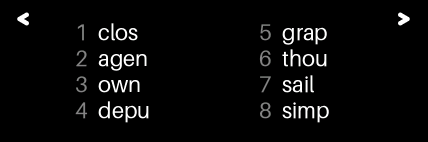
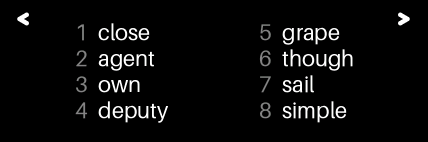
feat(ui-px): boot fingerprint shows the eight words whole
The pixel boot grid was fed the FSBL's 4x16 text rows, so every word was
cut to its five-letter prefix although the words grid has room for nine
characters. BIP-39 English words are at most eight letters (88 of 2048
are exactly eight), so `fingerprint_grid` now takes the full words
(`word_bytes_at` over `hash_to_word_indices`) and cuts nothing.

The FSBL window and the legacy 16x4 fallback keep the shared
`firmware_fingerprint_lines` prefixes (a text row cannot fit two
eight-letter words); each prefix starts the word shown on the grid and
four letters already identify a BIP-39 word, so the rows still compare.

Lifecycle `boot` fixture re-exported and its frame golden re-blessed
(only the fingerprint frame changed); catalogue frame and port plan
updated. Secure host tests 2628/0, pqsigner-ui-px 100/0.

diff --git a/secure/src/ui/px/status_map.rs b/secure/src/ui/px/status_map.rs
@@ -337,24 +337,22 @@ pub fn choice(title: &[u8], option: &[u8]) -> Screen {
         .unwrap_or(Screen::BLANK)
 }
 
-/// The boot fingerprint grid from the FSBL's own 4×16 rows (`1 word 5 word`
-/// per row), so the pixel grid shows exactly the prefixes the FSBL shows.
+/// The boot fingerprint grid: the eight words whole, as NUL-padded cells
+/// (`word_bytes_at`). BIP-39 English words are at most eight letters, so
+/// nothing is cut. The FSBL's text window can only fit five-letter
+/// prefixes; each prefix is the start of the word shown here, and the first
+/// four letters already identify a BIP-39 word, so the two rows still
+/// compare at a glance.
 #[must_use]
-pub fn fingerprint_grid(rows: &[[u8; 16]; 4]) -> Screen {
-    let mut words: [&[u8]; 8] = [b"-"; 8];
-    let trim = |w: &[u8]| -> usize { w.iter().position(|&b| b == b' ').unwrap_or(w.len()) };
-    for (r, row) in rows.iter().enumerate() {
-        let l = &row[2..8];
-        let rr = &row[10..16];
-        let (ll, rl) = (trim(l), trim(rr));
-        if ll > 0 {
-            words[r] = &l[..ll];
-        }
-        if rl > 0 {
-            words[r + 4] = &rr[..rl];
+pub fn fingerprint_grid(words: &[[u8; 8]; 8]) -> Screen {
+    let mut cells: [&[u8]; 8] = [b"-"; 8];
+    for (cell, w) in cells.iter_mut().zip(words) {
+        let n = w.iter().position(|&b| b == 0).unwrap_or(w.len());
+        if n > 0 {
+            *cell = &w[..n];
         }
     }
-    ScreenBuilder::words(b"FPRINT", b"", &words).finish().unwrap_or(Screen::BLANK)
+    ScreenBuilder::words(b"FPRINT", b"", &cells).finish().unwrap_or(Screen::BLANK)
 }
 
 /// The seed-page record: `n` placeholder cells numbered from `first` — the
@@ -683,19 +681,22 @@ mod tests {
     }
 
     #[test]
-    fn fingerprint_grid_keeps_the_fsbl_prefixes() {
-        let mut rows = [[b' '; 16]; 4];
-        let words = [b"clos", b"agen", b"own ", b"depu", b"grap", b"thou", b"sail", b"simp"];
-        for r in 0..4 {
-            rows[r][0] = b'1' + r as u8;
-            rows[r][2..6].copy_from_slice(words[r]);
-            rows[r][8] = b'5' + r as u8;
-            rows[r][10..14].copy_from_slice(words[r + 4]);
-        }
-        let g = fingerprint_grid(&rows);
-        assert_eq!(g.grid_word(0), Some(&b"clos"[..]));
+    fn fingerprint_grid_shows_whole_words() {
+        let w = |s: &[u8]| {
+            let mut c = [0u8; 8];
+            c[..s.len()].copy_from_slice(s);
+            c
+        };
+        let words = [w(b"close"), w(b"agent"), w(b"own"), w(b"deputy"), w(b"grape"), w(b"though"), w(b"sail"), w(b"category")];
+        let g = fingerprint_grid(&words);
+        assert!(g.is_well_formed());
+        assert_eq!(g.grid_word(0), Some(&b"close"[..]));
         assert_eq!(g.grid_word(2), Some(&b"own"[..]));
-        assert_eq!(g.grid_word(7), Some(&b"simp"[..]));
+        assert_eq!(g.grid_word(3), Some(&b"deputy"[..]));
+        // The longest BIP-39 English words (eight letters) fit whole.
+        assert_eq!(g.grid_word(7), Some(&b"category"[..]));
+        let longest = sphincs_tz_bip39::wordlist::WORDLIST.iter().map(|w| w.len()).max().unwrap();
+        assert_eq!(longest, 8);
     }
 
     #[test]
@@ -737,13 +738,6 @@ mod tests {
             c[..s.len()].copy_from_slice(s);
             c
         };
-        let mut rows = [[b' '; 16]; 4];
-        for (r, (a, b)) in [(b"clos", b"grap"), (b"agen", b"thou"), (b"own ", b"sail"), (b"depu", b"simp")].iter().enumerate() {
-            rows[r][0] = b'1' + r as u8;
-            rows[r][2..6].copy_from_slice(*a);
-            rows[r][8] = b'5' + r as u8;
-            rows[r][10..14].copy_from_slice(*b);
-        }
         let fw = [w(b"close"), w(b"agent"), w(b"own"), w(b"deputy"), w(b"grape"), w(b"though"), w(b"sail"), w(b"simple")];
         let key = [w(b"zoo"), w(b"abandon"), w(b"mountain"), w(b"withdraw"), w(b"ill"), w(b"jewel"), w(b"quality"), w(b"fix")];
         let mut fwt = std::boxed::Box::new(pqsigner_ui_px::Screens::blank());
@@ -768,7 +762,7 @@ mod tests {
         )
         .unwrap();
         let scenarios: std::vec::Vec<(&str, std::vec::Vec<Screen>)> = std::vec![
-            ("boot", std::vec![splash(), st("OS Fingerprint", ""), fingerprint_grid(&rows), st("PQSigner OS", "Ready")]),
+            ("boot", std::vec![splash(), st("OS Fingerprint", ""), fingerprint_grid(&fw), st("PQSigner OS", "Ready")]),
             (
                 "unlock",
                 std::vec![

diff --git a/secure/src/measured_boot.rs b/secure/src/measured_boot.rs
@@ -157,11 +157,17 @@ fn render_all_words(hash: &[u8; 32]) {
     // of a renderer-width artifact.
     let rows = firmware_fingerprint_lines(hash);
 
-    // Port step 4: the same eight prefixes on the design's words grid. The
-    // FSBL's own window is NOT ported — it stays text (plan § 4).
+    // Port step 4: the design's words grid has room for the eight words
+    // whole (BIP-39 words are at most eight letters), so it shows them
+    // uncut; the FSBL's own text window keeps its five-letter prefixes (plan
+    // § 4), which are the starts of these words.
     #[cfg(feature = "ui-px")]
-    if crate::ui::px::screens::show(&crate::ui::px::status_map::fingerprint_grid(&rows)) {
-        return;
+    {
+        let indices = sphincs_tz_bip39::hash_to_word_indices(hash);
+        let words: [[u8; 8]; 8] = core::array::from_fn(|i| sphincs_tz_bip39::word_bytes_at(indices[i]).0);
+        if crate::ui::px::screens::show(&crate::ui::px::status_map::fingerprint_grid(&words)) {
+            return;
+        }
     }
 
     let d = display();

diff --git a/docs/ui/pixel-ui-port-plan.md b/docs/ui/pixel-ui-port-plan.md
@@ -188,7 +188,7 @@ batch idle → padlock) are screens outside the sign dialog — step 4 (done).
 | ~300 `ui::show_status` / `show_progress` sites | `screens/verdict/*`, status / film | `ui/px/status_map.rs` maps each to its screen; `ui/px/screens.rs` presents it |
 | PIN entry (`pin_entry.rs`) | `pin/pin_entering` (PIN row) | `status_map::pin_row` — painting only, the entry loop unchanged |
 | wrong PIN / PINs differ / checking / last attempt / locked / unlocked | `pin_mismatch`, `last_attempt`, `padlock` | verdicts |
-| boot splash + OS fingerprint | words grid | `splash`, `fingerprint_grid` (the FSBL's own 4×16 prefixes, so both rows still compare) |
+| boot splash + OS fingerprint | words grid | `splash`, `fingerprint_grid` (the eight words whole — BIP-39 words are ≤ 8 letters; the FSBL text window keeps its 5-letter prefixes, which start these words) |
 | seed wizard: chooser, 24 words, word entry, candidate pick, backup check | words grid, entry row, `shield` | `choice`, `seed_page` + the constant-time run, `letter_row`, `candidate_list` |
 | 120 s idle lock, re-unlock | `padlock` | PendSV plays LOCKED, then the PIN row; UNLOCKED before READY |
 | wipe / tamper / RNG / factory | `wipe`, `tamper`, `rng_failed`, `factory_signing` | verdicts |
@@ -263,7 +263,7 @@ must exist in its face (the 18 px / 16 px faces carry caps, digits and
 draft). Every existing fixture passes it.
 
 Evidence: `ui_px_status_map` host tests (9: the lifecycle verdict map, the
-notice keeping every word, caption charset, PIN masking, the FSBL-prefix
+notice keeping every word, caption charset, PIN masking, the whole-word
 grid, both fw-update transcripts passing `check_flow`, the lifted consents
 carrying every page fact, secret records holding no words, and the fixture
 drift check); `pqsigner-ui-px` 93 unit + 7 golden (new: shape / verdict /
